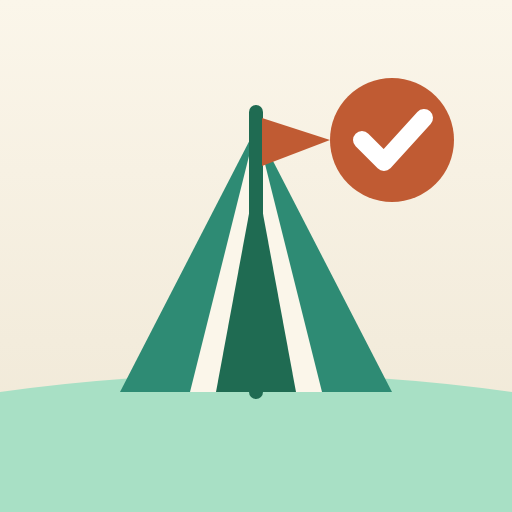
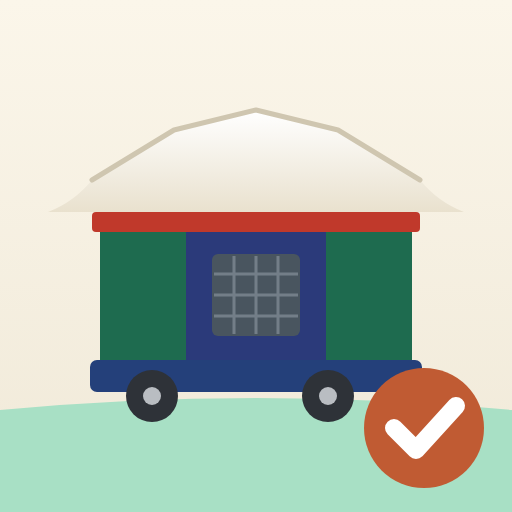
Icône à l'image de la tente-remorque du client
Remplace l'icône générique (tente canadienne) par une représentation
stylisée de la tente-remorque Raclet d'après les photos : toit toile
crème à pans avec pic central et bords évasés, bandeau rouge, panneaux
vert sapin et bleu marine, moustiquaire, châssis de remorque et roues.
La pastille orange de validation est conservée pour l'identité
checklist.

Les sources SVG sont versionnées dans icons/ à côté des PNG générés.
Le nom du cache du service worker est incrémenté (v3.6) sans quoi les
appareils ayant déjà installé l'application conserveraient l'ancienne
icône en cache.

Version 3.6

Claude-Session: https://claude.ai/code/session_013wCpmtgvo3vt5CRixnrzGA

diff --git a/sw.js b/sw.js
@@ -3,7 +3,7 @@
    dernière version publiée quand il y a du réseau, et la dernière version
    consultée quand il n'y en a pas (utile au camping). */
 
-const CACHE = "checklist-vacances-v3.5";
+const CACHE = "checklist-vacances-v3.6";
 
 const ASSETS = [
   "./",

diff --git a/index.html b/index.html
@@ -567,7 +567,7 @@ const STYLE = [
   ["🧸","#FBDA8B","#96690A"]
 ];
 
-const VERSION = "3.5";
+const VERSION = "3.6";
 const VERSION_DATE = "26/07/2026";
 const KEY = "checklist_vacances_v1";
 
